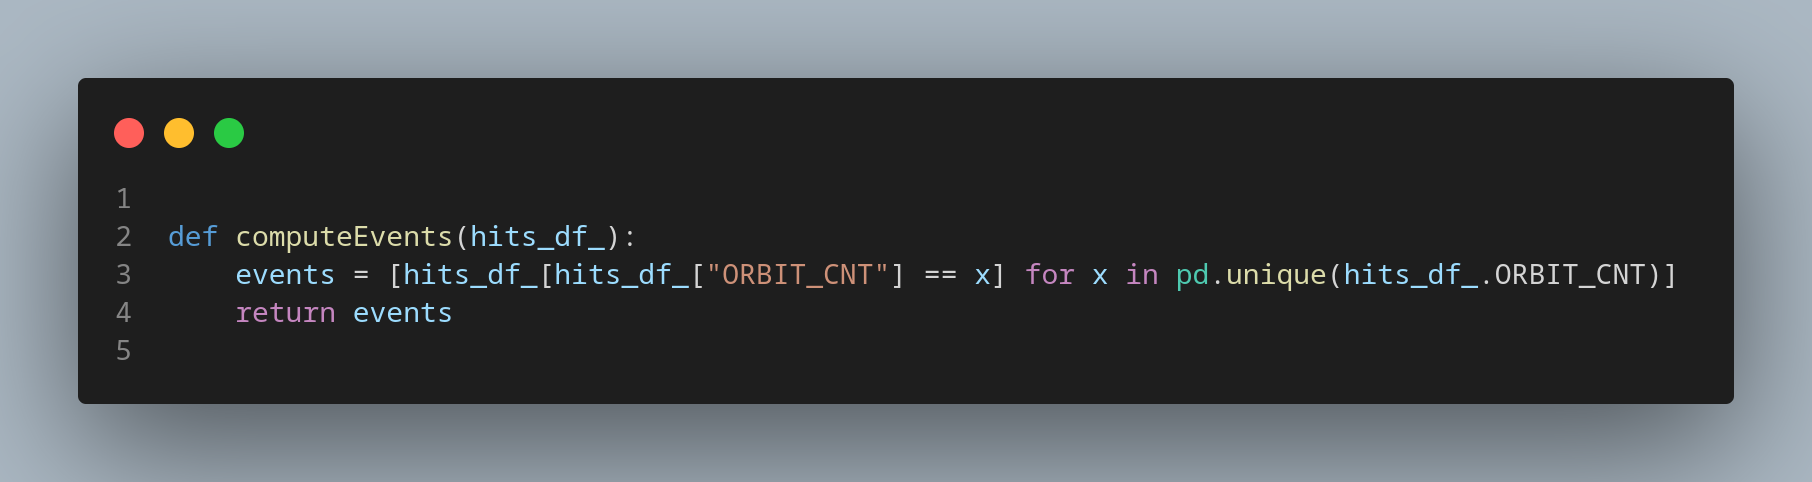
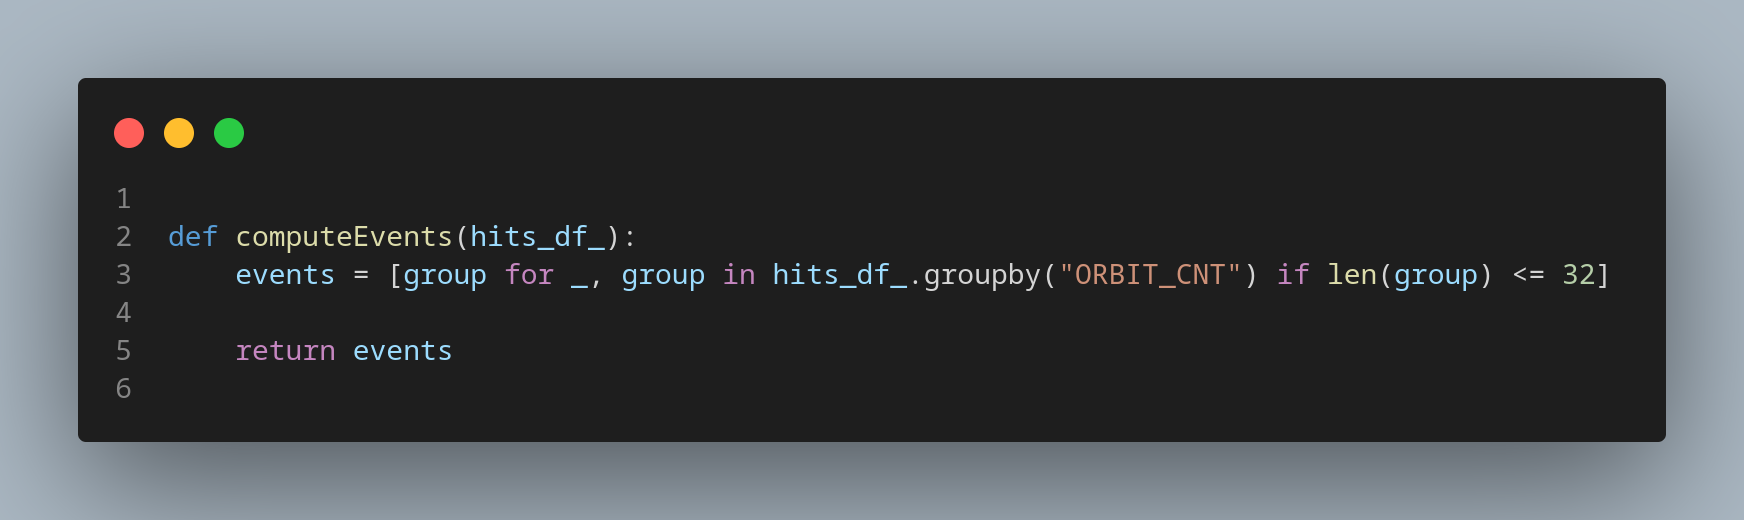
just kiddin, this is the final opt

diff --git a/optimization/eventsFactory.py b/optimization/eventsFactory.py
@@ -73,7 +73,7 @@ def usingTrigger(stream_df, hits_df_, cfg):
 
 def computeEvents(hits_df_):
     events = [group for _, group in hits_df_.groupby("ORBIT_CNT") if len(group) <= 32]
-    #events = [hits_df_[hits_df_["ORBIT_CNT"] == x] for x in pd.unique(hits_df_.ORBIT_CNT)]
+    
     return events
 
 
